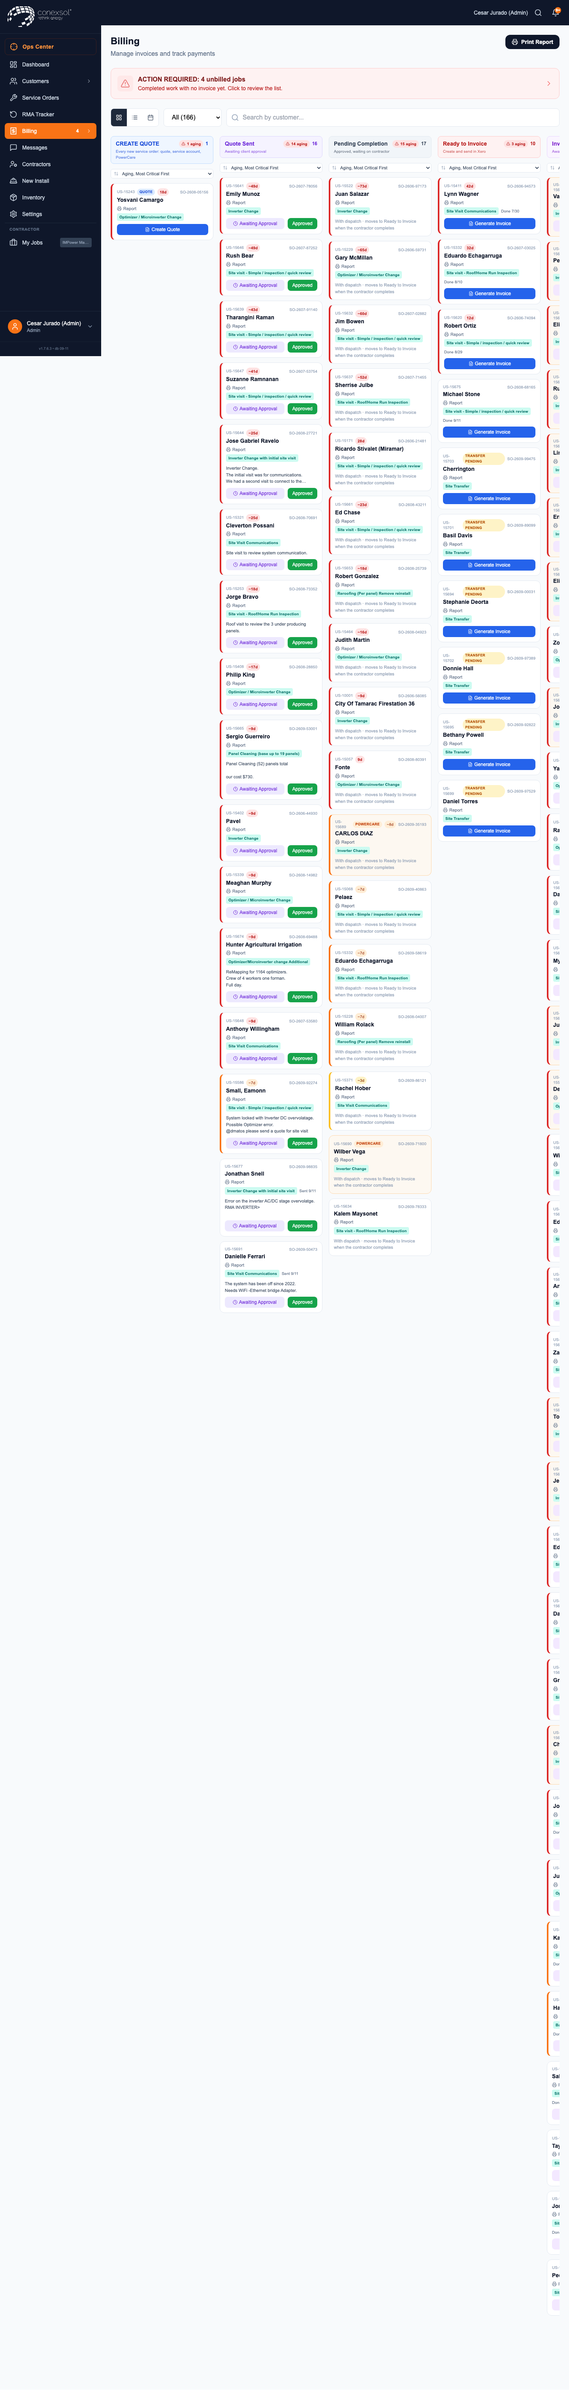
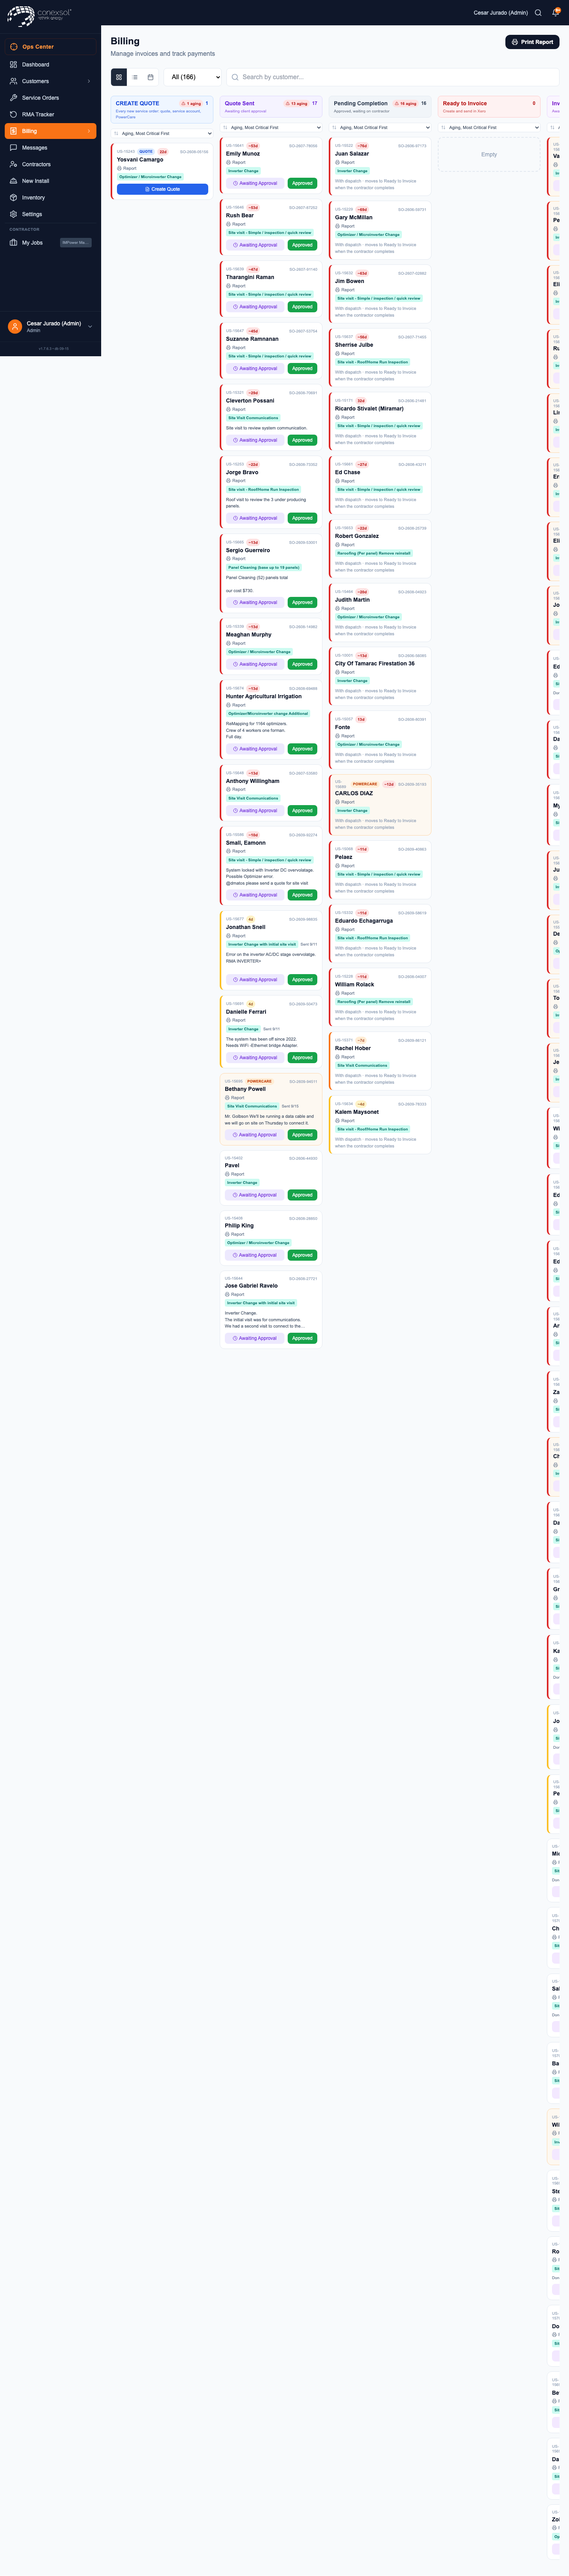
docs: deploy note for 92bf283, refresh UI catalog
Site transfer billing fix + Visits-control reorder, and the
git-state reconciliation that found 8c163ca already live on main.
Catalog recaptured against the deployed build: 26/26 screens,
Billing (list + kanban) confirmed authenticated with real data.

diff --git a/2026-09-15.md b/2026-09-15.md
@@ -1,0 +1,31 @@
+# 2026-09-15
+
+## Database timestamp deployment
+
+Applied and verified live INSERT/UPDATE server timestamp trigger. Rolled-back INSERT/UPDATE/UPSERT tests passed before and after deployment; zero future-dated rows (5-second tolerance), zero leftover probes. Migration and evidence pushed as `24b2674` from isolated release branch after remote main advanced. No app behavior change requires Vercel deployment; any automatic Vercel build from this documentation/SQL commit is separate from confirmed database deployment. See [[Audit Preparation 2026-09-07/2026-09-15 Timestamp migration deployment]].
+
+## Existing RMA timestamp backfill
+
+Audited 50 live RMAs. Ten standalone RMAs were already valid. Forty RMAs embedded in 38 service orders lacked `updatedAt`, though all had valid unique IDs and creation timestamps. The first backfill exposed a whole-job sync race: active legacy clients restored 23 missing timestamps. No RMA business fields changed, and the protected backup captured all 38 original rows.
+
+Commit `b62ddd9` changed job sync to merge RMAs by stable ID and newest entry timestamp. It passed 951 tests across 94 files and the production build, then was verified live as `v1.7.6.3+b62ddd9.1789481540631`. A database write guard now fills a missing RMA timestamp from its original `createdAt`, preventing older open tabs from reverting the repair. The idempotent backfill was rerun after the guard was installed.
+
+Final live verification, repeated after a 20-second client sync window: 40 job RMAs, zero missing timestamps; 10 standalone RMAs, zero missing timestamps; 40 stable IDs, zero added or missing RMAs, and zero RMA business-field differences versus backup. The 38-row backup has RLS enabled and is unreadable by anonymous and authenticated roles. Guard and final report source pushed as `96dd674`. See [[Audit Preparation 2026-09-07/2026-09-15 Existing RMA timestamp backfill]].
+
+## Site transfer billing fix + Visits control reorder (fa67e8d, 92bf283)
+
+Two user-requested fixes, pushed on top of `96dd674`:
+
+**`fa67e8d` fix(billing): show the site transfer flat fee, not an hourly breakdown.** The Billing list-view card ran every job through the generic "labor hrs @ rate/hr + parts" line, including site transfers, which have neither. Combined with `formatMoney`'s SHOW_MONEY gate (always renders "-"), a site transfer showed as `- / 1 hrs @ -/hr + - parts`, meaningless. Site transfers now show `$120.00 / Site Transfer, flat fee` via `formatCost`, the same SHOW_MONEY-bypass already used for this figure in ServiceOrderPanel's Actual Service Call Cost. $120 is a fixed rate named openly in the creation flow (`Jobs.tsx` lead-conversion path), not a variable commercial figure, so showing it does not violate the platform-wide money-hiding policy. Verified live against a real order (Pedro Cordon, US-15681).
+
+Also confirmed, no change needed: the "Generate Invoice" button on a site-transfer card in Ready to Invoice already worked exactly as wanted (`getBillingColumn` already routes site transfers there on creation; clicking it opens the SOW report, and Daniel's "Mark Invoiced" from inside it moves the card out).
+
+**`92bf283` refactor(SO): render the Visits control below Scope of Work on Overview.** The follow-up-visit approval control (`VisitWorkspace`, from `8c163ca`) was pinned above every tab's content, including Overview, reading before the Scope of Work text instead of after it. It now renders in two mutually exclusive spots: on Overview, right after Scope of Work (matching the requested reading order); everywhere else, and while `viewingHistory` has hidden Overview's own content, it stays pinned at the top, since that is the only place left able to toggle back to the current visit from a historical one. Verified live against a real order (Jarrod Hollander, US-15397): Overview shows it after Scope of Work; Parts & Labor shows it pinned at top; toggle-back path unbroken.
+
+**Notable history: this branch's origin.** `feature/visit-approval-20260912` (the source of `8c163ca`/`a5337c7`, the full follow-up-visit-approval-gate feature: 11-visit cap, admin quote/included gate, per-visit labor/photos/billing) was fully built and tested on 09-12 - 949 tests, browser synthetic flow at 1440px/390px - but was never merged locally. It turned out `origin/main` already had it (pushed by a separate process sometime after this session's local git state went stale); local git state was reconciled by fetching, diffing content instead of trusting branch-name history, and cherry-picking only the two new commits onto the real `origin/main` tip rather than merging a stale local reconstruction. **RULE: before declaring a branch "never merged," `git fetch` and check `origin/main`, not just local refs** - `git branch --all --contains <sha>` only reflects branches this checkout already knows about.
+
+Verification: `tsc -b` clean, `pnpm build` clean, 951/951 tests. Live `sha` `92bf283`; `/api/service-visits` returns 405 (function built, method gate correct, not a 404 page); `/api/users`/`/api/solaredge` return 401 JSON. Confirmed both changed strings ("Site Transfer, flat fee", "Scope of Work / Notes" adjacent to the Visits control's own strings) are present in their live lazy chunks (`Billing-*.js`, `ServiceOrderPanel-*.js`) - a version.json match alone is not proof for code-split changes.
+
+Function count: exactly 12 real `api/*` routes post-merge (Hobby cap), `_serviceVisits.ts`/`_auth.ts`/`_notifyGuards.ts` excluded as underscore helpers. At the cap, not over - no headroom for a 13th route without consolidating.
+
+Follow-up owed: `/snap-ui` catalog refresh (Billing card layout + new Visits control on every SO panel tab).

diff --git a/UI_SCREEN_CATALOG.md b/UI_SCREEN_CATALOG.md
@@ -2,7 +2,7 @@
 
 > Live visual map. Auto-generated by `solarflow-dashboard/scripts/capture-screens.mjs` (run via `/snap-ui` or on deploy). Do not hand-edit screenshots; edit `scripts/ui-screens.manifest.json` and re-run.
 
-_Last captured: 2026-09-11 - 26/26 screens - viewport 1440x900_
+_Last captured: 2026-09-15 - 26/26 screens - viewport 1440x900_
 
 Text-only routing reference: [UI_UX_SCREEN_MAP.md](UI_UX_SCREEN_MAP.md)
 
